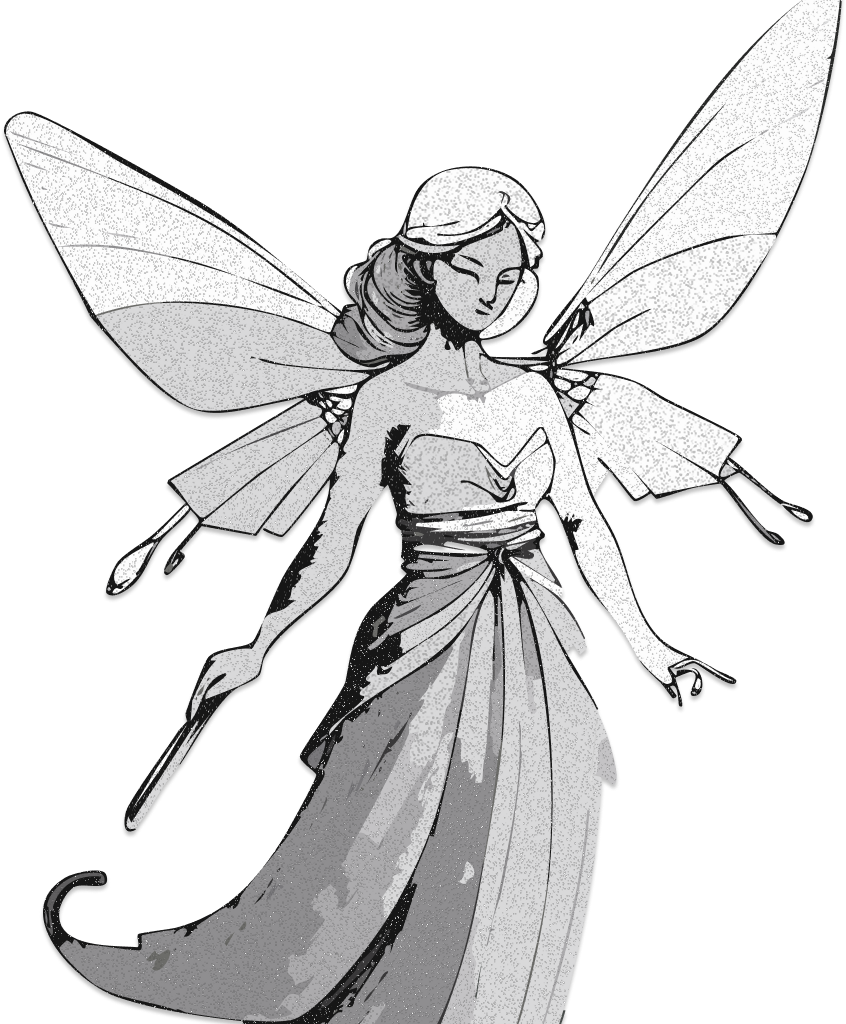
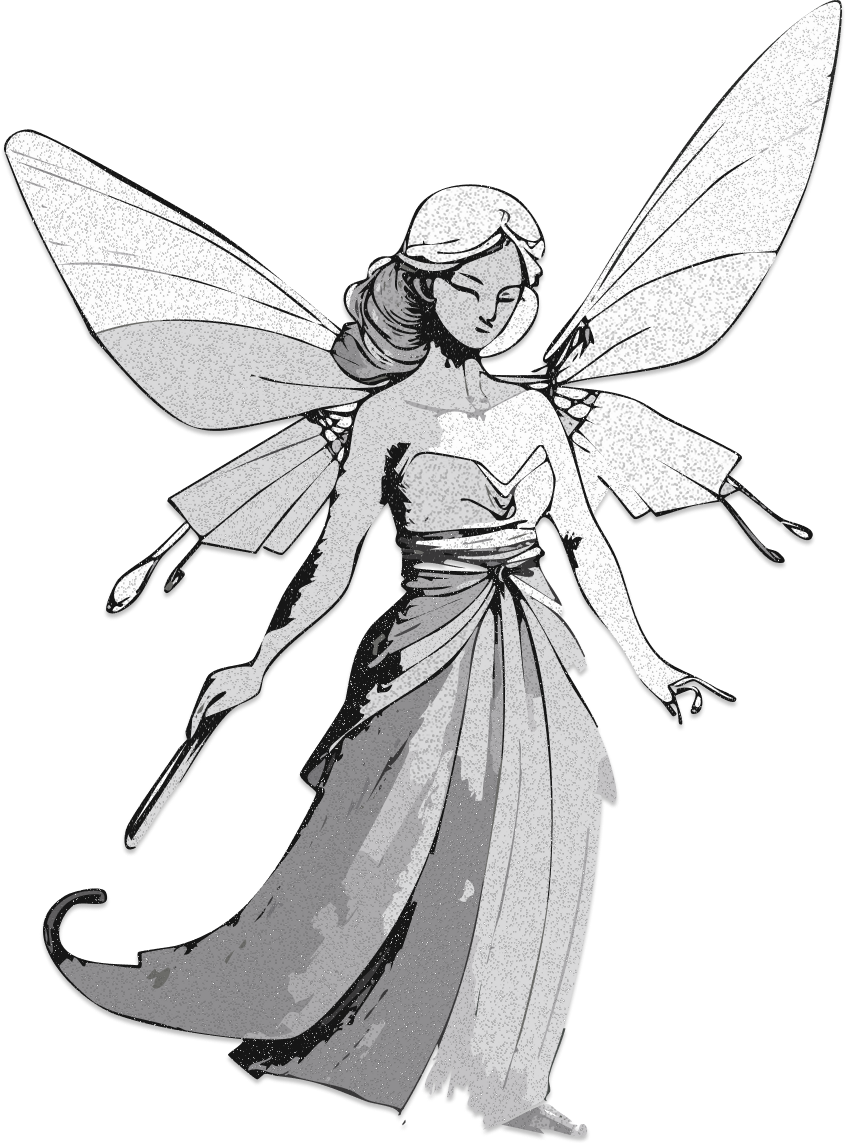
fee positionnee

diff --git a/Sakura/index.html b/Sakura/index.html
@@ -31,6 +31,7 @@
         <img src="/scene-1/second-plan.png" class="scene-element scene-1 plan-2-scene-1 zoom-in"></img>
         <img src="/scene-1/troisieme-plan.png" class="scene-element scene-1 plan-3-scene-1 zoom-in"></img>
         <img src="/scene-1/quatrieme-plan.png" class="scene-element scene-1 plan-4-scene-1 zoom-in"></img>
+        <img src="/scene-1/fee.png" class="fee-scene-1">
       </div>
     </div>
 

diff --git a/Sakura/src/ScrollManager.ts b/Sakura/src/ScrollManager.ts
@@ -110,8 +110,7 @@ export class ScrollManager {
     //au scroll le texte se lance + son
     const sceneText = this.frameContainers[0].querySelector('.animated-text') as HTMLElement
     this.scrollTimeline.add(this.createSplitTextAnim(sceneText));
-    //continue dans le scroll, la fée apparait
-    //
+    //continue dans le scroll, la fée apparait par la gauche 
   }
 
   /**

diff --git a/Sakura/src/style.css b/Sakura/src/style.css
@@ -140,6 +140,12 @@ body.blur-active *:not(#start-button):not(#start-button *) {
   height: 10%;
 top : 10%;
 }
+.fee-scene-1{
+  position: relative;
+    width: 10%;
+    z-index: 1;
+    left: -10%;
+}
 
 .sun{
   position: absolute;
